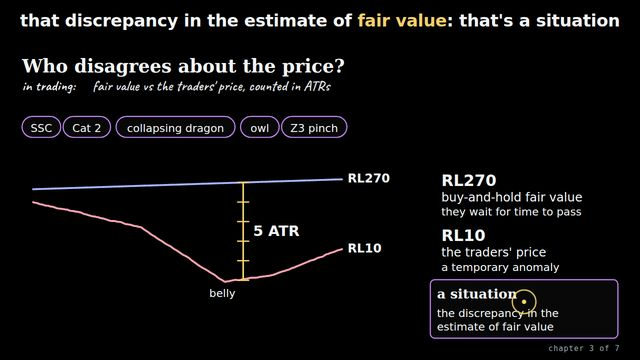
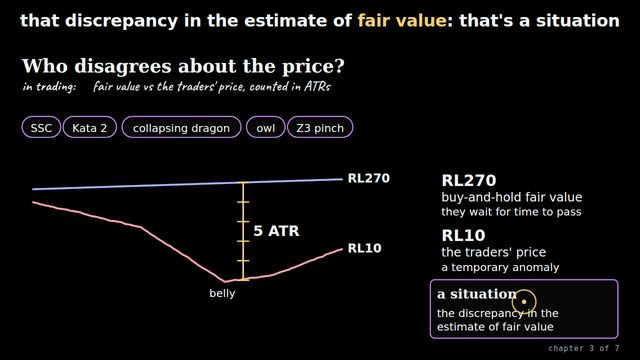
cutroom: tomorrows-trades-v2 rev 5 (owner notes: Kata 2, s04k card, s03a date)

Changed region(s): [[0.0938, 0.3056, 0.5625, 0.3972]]

diff --git a/tools/cutroom/tomorrows-trades-v2/anim-s08a.html b/tools/cutroom/tomorrows-trades-v2/anim-s08a.html
@@ -2,7 +2,7 @@
 <html lang="en">
 <head>
 <meta charset="utf-8">
-<title>s08a · the Cat 2s he walked away from</title>
+<title>s08a · the Kata 2s he walked away from</title>
 <style>
   :root { --bg:#000; --fg:#f2f5f7; --muted:#9aa7b0; --border:rgba(255,255,255,0.12); --accent:#F2D06B;
           --ok:#4ade80; --dn:#f87171; --card:#000; --blue:#7baad4; }
@@ -89,7 +89,7 @@ function recall(t,t0,x,y,w,h,label,inner,o={}){const a=op(t,t0,.5)*(o.until&&t>o
   return rect(x,y,w,h,{r:8,s:MUT,sw:1.5,f:'rgba(255,255,255,.03)',o:a,dash:'4 4'})+txt(x+12,y+20,label,{sz:14,c:MUT,o:a})+`<g opacity="${a}" transform="translate(${x} ${y+28}) scale(${o.sc||.5})">${inner}</g>`;}
 function list(t,t0,step,items,x,y,o={}){let out='';items.forEach((s,i)=>{const o1=op(t,t0+i*step,0.4);if(o1>0)out+=txt(x,y+i*(o.lh||34),s,{sz:o.sz||22,c:o.c||FG,o:o1,w:o.w||400});});return out;}
 
-const BEATS = [[0.2, "I discovered it after about five years of trading just the channeling and the overreaction", ""], [13.8, "these are all <em>specific rules</em>, with very strict criteria", ""], [20.0, "a 5DD: you have to have <em>five lower closes</em>", ""], [44.7, "four days down, then one day up, then four more down: <em>no signal</em>", ""], [62.7, "trading them mechanically, they were positive expectancy", ""], [77.2, "we captured the washout and then I just <em>walked away</em> from the symbol", ""], [83.8, "on the S&P later there were what we came to call <em>Cat 2s</em>, all the way up", ""], [126.0, "by the breakout above yesterday's high <em>plus a nickel</em>", ""], [130.1, "start with a risk box of yesterday's range, and just <em>trail it</em>", ""], [153.9, "above the previous peak of the regression line: what we now call an <em>emerging dragon</em>", ""], [182.2, "while it's still in what I think of as <em>the pocket</em>", ""], [195.5, "if it was going to fail, that's probably where it would fail", ""], [209.4, "you could re-enter as a continuation, <em>regardless of the original source</em>", ""], [219.4, "it ended up becoming a <em>standard re-entry strategy</em>", ""]];
+const BEATS = [[0.2, "I discovered it after about five years of trading just the channeling and the overreaction", ""], [13.8, "these are all <em>specific rules</em>, with very strict criteria", ""], [20.0, "a 5DD: you have to have <em>five lower closes</em>", ""], [44.7, "four days down, then one day up, then four more down: <em>no signal</em>", ""], [62.7, "trading them mechanically, they were positive expectancy", ""], [77.2, "we captured the washout and then I just <em>walked away</em> from the symbol", ""], [83.8, "on the S&P later there were what we came to call <em>Kata 2s</em>, all the way up", ""], [126.0, "by the breakout above yesterday's high <em>plus a nickel</em>", ""], [130.1, "start with a risk box of yesterday's range, and just <em>trail it</em>", ""], [153.9, "above the previous peak of the regression line: what we now call an <em>emerging dragon</em>", ""], [182.2, "while it's still in what I think of as <em>the pocket</em>", ""], [195.5, "if it was going to fail, that's probably where it would fail", ""], [209.4, "you could re-enter as a continuation, <em>regardless of the original source</em>", ""], [219.4, "it ended up becoming a <em>standard re-entry strategy</em>", ""]];
 // WARP (optional): [[t_voice, t_authored], …] knots from the voice-over's words; the scene was authored on an estimate
 const WARP = null;
 const warpT = t => { if (!WARP) return t; for (let i = 1; i < WARP.length; i++) if (t <= WARP[i][0]) {
@@ -168,15 +168,15 @@ const xmark=(x,y,a,c)=>a<=0?'':line(x-10,y-10,x+10,y+10,{s:c||DN,sw:4,o:a})+line
 const check=(x,y,a,c)=>a<=0?'':path(`M${x-11} ${y} L${x-3} ${y+9} L${x+12} ${y-10}`,{s:c||OK,sw:4,o:a});
 
 function draw(t){let s='';
-  s+=head(t,0,'What did the strict rules leave behind?')+bridge(t,0,'the Cat 2s after a cashed trade, and the pocket');
+  s+=head(t,0,'What did the strict rules leave behind?')+bridge(t,0,'the Kata 2s after a cashed trade, and the pocket');
   // five lower closes (counted), then the strict-rule miss: 4 down, 1 up, 4 down
   const cl=(x0,seq,a)=>{let s2='',y=150;seq.forEach((d,k)=>{y+=d*16;s2+=line(x0+k*26-9,y,x0+k*26+9,y,{s:d>0?RISK:TGT,sw:4,o:a});});return s2;};
   if(t>=T(2)){s+=cl(60,[1,1,1,1,1],A(t,2));s+=txt(60,265,'five lower closes',{sz:19,c:RISK,o:A(t,2)});s+=check(210,215,A(t,2),TGT);}
   if(t>=T(3)){s+=cl(290,[1,1,1,1,-1,1,1,1,1],A(t,3));s+=txt(290,265,'4 down, 1 up, 4 down',{sz:19,c:MUT,o:A(t,3)});s+=xmark(540,215,A(t,3));s+=txt(556,222,'no signal',{sz:19,c:RISK,o:A(t,3)});}
-  // the S&P after the washout: cashed and walked away, Cat 2s all the way up (no count given here)
+  // the S&P after the washout: cashed and walked away, Kata 2s all the way up (no count given here)
   const F=fr(60,290,600,220,0,1);
   if(t>=T(5)){const a=A(t,5);s+=path('M60 480 L110 500 L140 470',{s:FG,sw:3,o:a})+circ(140,470,6,{f:TGT,o:a})+txt(70,520,'washout, cashed',{sz:18,c:PAT,o:a});s+=txt(160,468,'walked away',{sz:19,c:MUT,o:a});}
-  if(t>=T(6)){const u=clamp((t-T(6))/10,0,1);const f=walk([[0,.12],[.25,.3],[.5,.5],[.75,.7],[1,.92]],11,.03);s+=plot(fr(180,290,480,220,0,1),f,0,u,{s:FG,sw:3,o:A(t,6)});s+=txt(560,320,'Cat 2s, all the way up',{sz:20,c:KEY,o:A(t,6),a:'end'});}
+  if(t>=T(6)){const u=clamp((t-T(6))/10,0,1);const f=walk([[0,.12],[.25,.3],[.5,.5],[.75,.7],[1,.92]],11,.03);s+=plot(fr(180,290,480,220,0,1),f,0,u,{s:FG,sw:3,o:A(t,6)});s+=txt(560,320,'Kata 2s, all the way up',{sz:20,c:KEY,o:A(t,6),a:'end'});}
   // the RL10, its previous peak, the pocket, the emerging dragon
   if(t>=T(9)){const a=A(t,9);s+=line(300,380,660,380,{s:MUT,sw:2,dash:'7 6',o:a})+txt(380,404,'prior RL10 peak',{sz:17,c:MUT,o:a});}
   if(t>=T(10)){const a=A(t,10);s+=rect(240,380,110,90,{r:6,f:'rgba(197,138,249,.14)',s:SIT,sw:2,o:a})+txt(295,494,'the pocket',{a:'middle',sz:20,c:SIT,o:a});}

diff --git a/tools/cutroom/tomorrows-trades-v2/anim-s07a.html b/tools/cutroom/tomorrows-trades-v2/anim-s07a.html
@@ -89,7 +89,7 @@ function recall(t,t0,x,y,w,h,label,inner,o={}){const a=op(t,t0,.5)*(o.until&&t>o
   return rect(x,y,w,h,{r:8,s:MUT,sw:1.5,f:'rgba(255,255,255,.03)',o:a,dash:'4 4'})+txt(x+12,y+20,label,{sz:14,c:MUT,o:a})+`<g opacity="${a}" transform="translate(${x} ${y+28}) scale(${o.sc||.5})">${inner}</g>`;}
 function list(t,t0,step,items,x,y,o={}){let out='';items.forEach((s,i)=>{const o1=op(t,t0+i*step,0.4);if(o1>0)out+=txt(x,y+i*(o.lh||34),s,{sz:o.sz||22,c:o.c||FG,o:o1,w:o.w||400});});return out;}
 
-const BEATS = [[0.2, "The reason I came across it: for about <em>five years</em>, all I took were the formal structured trades", ""], [22.8, "2001, when the internet bubble blew up, maybe 2003: a huge selloff", ""], [38.4, "we took the <em>washout</em> pattern and we cashed that trade", ""], [42.6, "and then there were <em>seven Cat 2s</em>; we weren't calling them that at the time", ""], [70.6, "the channeling system: price was above the <em>200-day</em>", ""], [73.2, "then pulled back until Williams %R was <em>oversold</em>", ""], [101.9, "you just buy <em>tomorrow's open</em>, wherever it opens", ""], [117.8, "the stop: yesterday's low, or you could use a <em>5% initial stop</em>", ""], [124.6, "about <em>70%</em> of the time, this thing wins", ""], [141.9, "the exit: when it got above minus 30, almost overbought", ""], [177.0, "year in and year out, <em>70 to 85%</em> successful in the big fat indexes", "His figures, as he states them."], [200.1, "that simple rule turns out to be <em>positive expectancy</em>", ""], [208.2, "this idea of the continuation pattern proved to be very interesting", ""]];
+const BEATS = [[0.2, "The reason I came across it: for about <em>five years</em>, all I took were the formal structured trades", ""], [22.8, "2001, when the internet bubble blew up, maybe 2003: a huge selloff", ""], [38.4, "we took the <em>washout</em> pattern and we cashed that trade", ""], [42.6, "and then there were <em>seven Kata 2s</em>; we weren't calling them that at the time", ""], [70.6, "the channeling system: price was above the <em>200-day</em>", ""], [73.2, "then pulled back until Williams %R was <em>oversold</em>", ""], [101.9, "you just buy <em>tomorrow's open</em>, wherever it opens", ""], [117.8, "the stop: yesterday's low, or you could use a <em>5% initial stop</em>", ""], [124.6, "about <em>70%</em> of the time, this thing wins", ""], [141.9, "the exit: when it got above minus 30, almost overbought", ""], [177.0, "year in and year out, <em>70 to 85%</em> successful in the big fat indexes", "His figures, as he states them."], [200.1, "that simple rule turns out to be <em>positive expectancy</em>", ""], [208.2, "this idea of the continuation pattern proved to be very interesting", ""]];
 // WARP (optional): [[t_voice, t_authored], …] knots from the voice-over's words; the scene was authored on an estimate
 const WARP = null;
 const warpT = t => { if (!WARP) return t; for (let i = 1; i < WARP.length; i++) if (t <= WARP[i][0]) {
@@ -174,7 +174,7 @@ function draw(t){let s='';
   if(t>=T(1)){const a=A(t,1);s+=path(`M${x0} 150 L${x0+60} 190 L${x0+110} 250 L${x0+150} 300`,{s:RISK,sw:3,o:a});s+=txt(x0,140,'selloff',{sz:19,c:RISK,o:a});}
   if(t>=T(2)){const a=A(t,2);s+=path(`M${x0+150} 300 L${x0+190} 270`,{s:FG,sw:3,o:a});s+=circ(x0+150,300,7,{f:PAT,o:a})+circ(x0+190,270,7,{f:TGT,o:a});s+=txt(x0+120,334,'washout, cashed',{sz:19,c:PAT,o:a});}
   if(t>=T(3)){for(let k=0;k<7;k++){const a=op(t,T(3)+k*.5,.4);if(a<=0)continue;const x=x0+210+k*58,y=262-k*16;s+=path(`M${x-16} ${y+14} L${x} ${y} L${x+16} ${y-6} L${x+30} ${y-16}`,{s:FG,sw:3,o:a});s+=circ(x+30,y-16,5,{f:KEY,o:a});}
-    s+=txt(x0+390,280,'seven Cat 2s',{sz:22,c:KEY,o:A(t,3),w:600,a:'middle'});}
+    s+=txt(x0+390,280,'seven Kata 2s',{sz:22,c:KEY,o:A(t,3),w:600,a:'middle'});}
   // the channeling rule, small chart under it: 200-day, W%R oversold, buy the open, exit near -30
   const F=fr(60,370,560,90,0,1);
   if(t>=T(4)){const a=A(t,4);s+=line(60,410,620,410,{s:MUT,sw:2.5,dash:'8 6',o:a})+txt(626,415,'200-day',{sz:18,c:MUT,o:a});s+=path('M60 392 L180 380 L260 400 L300 404 L360 388 L460 372 L560 366 L620 360',{s:FG,sw:3,o:a});}

diff --git a/tools/cutroom/tomorrows-trades-v2/anim-s10a.html b/tools/cutroom/tomorrows-trades-v2/anim-s10a.html
@@ -89,7 +89,7 @@ function recall(t,t0,x,y,w,h,label,inner,o={}){const a=op(t,t0,.5)*(o.until&&t>o
   return rect(x,y,w,h,{r:8,s:MUT,sw:1.5,f:'rgba(255,255,255,.03)',o:a,dash:'4 4'})+txt(x+12,y+20,label,{sz:14,c:MUT,o:a})+`<g opacity="${a}" transform="translate(${x} ${y+28}) scale(${o.sc||.5})">${inner}</g>`;}
 function list(t,t0,step,items,x,y,o={}){let out='';items.forEach((s,i)=>{const o1=op(t,t0+i*step,0.4);if(o1>0)out+=txt(x,y+i*(o.lh||34),s,{sz:o.sz||22,c:o.c||FG,o:o1,w:o.w||400});});return out;}
 
-const BEATS = [[2.8, "then I started adding the <em>RL patterns</em>, generation one and generation two", ""], [15.8, "generation two: the SSC, the Cat 2, the collapsing dragon, the owl, the Z3 pinch", ""], [25.8, "the regression line fractal framework is what I'd call a <em>situation</em>", ""], [43.7, "the <em>RL270</em> is way up here, because there was a nice move", ""], [53.2, "but a temporary selloff in the <em>RL10</em>, and it had come to a reversal", ""], [82.9, "measure the number of <em>ATRs</em> between the belly of the RL10 and the RL270", ""], [100.5, "call the RL270 the long-term <em>buy-and-hold fair value</em>", ""], [107.3, "and the RL10 the <em>traders' price</em>", ""], [115.8, "a difference of opinion: what <em>two different populations</em> consider the correct price", ""], [125.2, "the long-term buy-and-holders are willing to wait for time to pass", ""], [143.1, "some kind of temporary anomaly caused the traders to take it down this far", ""], [158.5, "in this one, a <em>5 to 1</em>, based on ATR", ""], [176.8, "that discrepancy in the estimate of <em>fair value</em>: that's a situation", ""]];
+const BEATS = [[2.8, "then I started adding the <em>RL patterns</em>, generation one and generation two", ""], [15.8, "generation two: the SSC, the Kata 2, the collapsing dragon, the owl, the Z3 pinch", ""], [25.8, "the regression line fractal framework is what I'd call a <em>situation</em>", ""], [43.7, "the <em>RL270</em> is way up here, because there was a nice move", ""], [53.2, "but a temporary selloff in the <em>RL10</em>, and it had come to a reversal", ""], [82.9, "measure the number of <em>ATRs</em> between the belly of the RL10 and the RL270", ""], [100.5, "call the RL270 the long-term <em>buy-and-hold fair value</em>", ""], [107.3, "and the RL10 the <em>traders' price</em>", ""], [115.8, "a difference of opinion: what <em>two different populations</em> consider the correct price", ""], [125.2, "the long-term buy-and-holders are willing to wait for time to pass", ""], [143.1, "some kind of temporary anomaly caused the traders to take it down this far", ""], [158.5, "in this one, a <em>5 to 1</em>, based on ATR", ""], [176.8, "that discrepancy in the estimate of <em>fair value</em>: that's a situation", ""]];
 // WARP (optional): [[t_voice, t_authored], …] knots from the voice-over's words; the scene was authored on an estimate
 const WARP = null;
 const warpT = t => { if (!WARP) return t; for (let i = 1; i < WARP.length; i++) if (t <= WARP[i][0]) {
@@ -178,7 +178,7 @@ const BELLY=.68;
 function draw(t){let s='';
   s+=head(t,0,'Who disagrees about the price?')+bridge(t,0,'fair value vs the traders\' price, counted in ATRs');
   // generation two, counted as he names them (five)
-  const g2=['SSC','Cat 2','collapsing dragon','owl','Z3 pinch'];let gx=40;
+  const g2=['SSC','Kata 2','collapsing dragon','owl','Z3 pinch'];let gx=40;
   g2.forEach((nm,k)=>{const a=op(t,T(1)+k*.7,.4);if(a<=0)return;s+=chipS(null,null,gx,150,nm,SIT,{sz:18,o:a});gx+=nm.length*18*.6+32+10;});
   const F=fr(60,190,560,300,0,1);
   s+=crowds(F,A(t,3),clamp((t-T(4))/6,0,1)*(t>=T(4)?1:0));

diff --git a/tools/cutroom/tomorrows-trades-v2/anim-s20a.html b/tools/cutroom/tomorrows-trades-v2/anim-s20a.html
@@ -89,7 +89,7 @@ function recall(t,t0,x,y,w,h,label,inner,o={}){const a=op(t,t0,.5)*(o.until&&t>o
   return rect(x,y,w,h,{r:8,s:MUT,sw:1.5,f:'rgba(255,255,255,.03)',o:a,dash:'4 4'})+txt(x+12,y+20,label,{sz:14,c:MUT,o:a})+`<g opacity="${a}" transform="translate(${x} ${y+28}) scale(${o.sc||.5})">${inner}</g>`;}
 function list(t,t0,step,items,x,y,o={}){let out='';items.forEach((s,i)=>{const o1=op(t,t0+i*step,0.4);if(o1>0)out+=txt(x,y+i*(o.lh||34),s,{sz:o.sz||22,c:o.c||FG,o:o1,w:o.w||400});});return out;}
 
-const BEATS = [[0.2, "For right now, maybe the best thing is to take those <em>usual suspects</em>", ""], [8.1, "maybe just <em>limit it</em> to that; don't worry about scouring the daily report", ""], [16.4, "<em>work them up at night</em>, work them up well, be really prepared", ""], [23.2, "and trade those on <em>three-minute bars</em> the next day", ""], [32.0, "that's also the argument behind the <em>Cat 2 challenge</em>", ""], [46.5, "it would cause you to start with the <em>mechanical frame</em>", ""], [57.6, "I don't recognize any mechanical swing trade pattern in there", ""], [65.8, "there's still a <em>universal entry</em>: the high and the low of yesterday", ""], [79.6, "if this thing opens in the <em>yellow zone</em>, no matter what", ""], [94.0, "there's probably some pattern in there you can trade: a Cat 2, an SSC, a continuation", ""]];
+const BEATS = [[0.2, "For right now, maybe the best thing is to take those <em>usual suspects</em>", ""], [8.1, "maybe just <em>limit it</em> to that; don't worry about scouring the daily report", ""], [16.4, "<em>work them up at night</em>, work them up well, be really prepared", ""], [23.2, "and trade those on <em>three-minute bars</em> the next day", ""], [32.0, "that's also the argument behind the <em>Kata 2 challenge</em>", ""], [46.5, "it would cause you to start with the <em>mechanical frame</em>", ""], [57.6, "I don't recognize any mechanical swing trade pattern in there", ""], [65.8, "there's still a <em>universal entry</em>: the high and the low of yesterday", ""], [79.6, "if this thing opens in the <em>yellow zone</em>, no matter what", ""], [94.0, "there's probably some pattern in there you can trade: a Kata 2, an SSC, a continuation", ""]];
 // WARP (optional): [[t_voice, t_authored], …] knots from the voice-over's words; the scene was authored on an estimate
 const WARP = null;
 const warpT = t => { if (!WARP) return t; for (let i = 1; i < WARP.length; i++) if (t <= WARP[i][0]) {
@@ -181,8 +181,8 @@ function draw(t){let s='';
   // the mechanical frame, the running example small: the yellow zone and its pattern chips
   const F=fr(60,380,520,140,99,105);
   s+=yday(F,A(t,5),{zone:A(t,8),lines:A(t,7)});
-  ['Cat 2','SSC','continuation'].forEach((nm,k)=>{s+=chipS(t,9,todayF(F).X(.1)+k*110,F.Y(102)+10,nm,SIT,{sz:17,w:100,o:op(t,T(9)+k*.6,.4)});});
-  s+=chipS(t,4,800,170,'the Cat 2 challenge',KEY,{sz:22});
+  ['Kata 2','SSC','continuation'].forEach((nm,k)=>{s+=chipS(t,9,todayF(F).X(.1)+k*110,F.Y(102)+10,nm,SIT,{sz:17,w:100,o:op(t,T(9)+k*.6,.4)});});
+  s+=chipS(t,4,800,170,'the Kata 2 challenge',KEY,{sz:22});
   s+=defn(t,T(7),780,220,340,'still a universal entry',['yesterday\'s high and low','an open in the yellow zone','some pattern you can trade'],{lsz:18,lh:26,sz:22,pad:14,s:KEY});
   s+=L(t,6,800,420,'no swing pattern?',{sz:20,c:MUT});
   s+=focus(t,[[T(0),200,180],[T(1),620,240],[T(2),60,300],[T(3),200,340],[T(4),940,162],[T(7),950,270],[T(9),todayF(F).X(.3),F.Y(102)]]);

diff --git a/tools/cutroom/tomorrows-trades-v2/anim-s17a.html b/tools/cutroom/tomorrows-trades-v2/anim-s17a.html
@@ -89,7 +89,7 @@ function recall(t,t0,x,y,w,h,label,inner,o={}){const a=op(t,t0,.5)*(o.until&&t>o
   return rect(x,y,w,h,{r:8,s:MUT,sw:1.5,f:'rgba(255,255,255,.03)',o:a,dash:'4 4'})+txt(x+12,y+20,label,{sz:14,c:MUT,o:a})+`<g opacity="${a}" transform="translate(${x} ${y+28}) scale(${o.sc||.5})">${inner}</g>`;}
 function list(t,t0,step,items,x,y,o={}){let out='';items.forEach((s,i)=>{const o1=op(t,t0+i*step,0.4);if(o1>0)out+=txt(x,y+i*(o.lh||34),s,{sz:o.sz||22,c:o.c||FG,o:o1,w:o.w||400});});return out;}
 
-const BEATS = [[1.8, "or it's one of my <em>usual suspects</em>: EWW, EWZ", ""], [10.8, "and I recognize a standard pattern: the sniper pattern, <em>SSC, Cat 2, collapsing dragon</em>", ""], [20.0, "that little <em>triumvirate</em>, as a compound <em>battle drill</em>", ""], [27.8, "it's always preceded by a <em>harsh winter</em>", ""], [33.0, "something says this thing was <em>decisively in play</em> to the downside", ""], [36.9, "and then the R10 reversed at a very precise point", ""], [49.0, "and it moved up enough to hit my <em>P flip</em>", ""], [53.1, "now the P is going to be <em>my friend</em> on the way up", ""], [57.7, "a very well-defined entry this way, and a refined collapsing dragon that way", ""], [68.6, "I <em>absolutely love</em> that", ""]];
+const BEATS = [[1.8, "or it's one of my <em>usual suspects</em>: EWW, EWZ", ""], [10.8, "and I recognize a standard pattern: the sniper pattern, <em>SSC, Kata 2, collapsing dragon</em>", ""], [20.0, "that little <em>triumvirate</em>, as a compound <em>battle drill</em>", ""], [27.8, "it's always preceded by a <em>harsh winter</em>", ""], [33.0, "something says this thing was <em>decisively in play</em> to the downside", ""], [36.9, "and then the R10 reversed at a very precise point", ""], [49.0, "and it moved up enough to hit my <em>P flip</em>", ""], [53.1, "now the P is going to be <em>my friend</em> on the way up", ""], [57.7, "a very well-defined entry this way, and a refined collapsing dragon that way", ""], [68.6, "I <em>absolutely love</em> that", ""]];
 // WARP (optional): [[t_voice, t_authored], …] knots from the voice-over's words; the scene was authored on an estimate
 const WARP = null;
 const warpT = t => { if (!WARP) return t; for (let i = 1; i < WARP.length; i++) if (t <= WARP[i][0]) {
@@ -170,7 +170,7 @@ const check=(x,y,a,c)=>a<=0?'':path(`M${x-11} ${y} L${x-3} ${y+9} L${x+12} ${y-1
 function draw(t){let s='';
   s+=head(t,0,'What is the battle drill?')+bridge(t,0,'after a harsh winter: the reversal, the P flip, the entry');
   s+=chipS(t,0,40,150,'EWW',SUS,{sz:21,w:100});s+=chipS(t,0,150,150,'EWZ',SUS,{sz:21,w:100});
-  ['SSC','Cat 2','collapsing dragon'].forEach((nm,k)=>{s+=chipS(t,1,290+[0,100,210][k],150,nm,SIT,{sz:19,o:op(t,T(1)+k*.6,.4)});});
+  ['SSC','Kata 2','collapsing dragon'].forEach((nm,k)=>{s+=chipS(t,1,290+[0,100,210][k],150,nm,SIT,{sz:19,o:op(t,T(1)+k*.6,.4)});});
   // the harsh winter, the precise reversal, the PSAR dots flipping under price
   const F=fr(60,190,600,310,0,1);
   const f=walk([[0,.92],[.45,.16],[.55,.1],[.7,.34],[1,.72]],21,.006);

diff --git a/tools/cutroom/tomorrows-trades-v2/anim-s03a.html b/tools/cutroom/tomorrows-trades-v2/anim-s03a.html
@@ -89,7 +89,7 @@ function recall(t,t0,x,y,w,h,label,inner,o={}){const a=op(t,t0,.5)*(o.until&&t>o
   return rect(x,y,w,h,{r:8,s:MUT,sw:1.5,f:'rgba(255,255,255,.03)',o:a,dash:'4 4'})+txt(x+12,y+20,label,{sz:14,c:MUT,o:a})+`<g opacity="${a}" transform="translate(${x} ${y+28}) scale(${o.sc||.5})">${inner}</g>`;}
 function list(t,t0,step,items,x,y,o={}){let out='';items.forEach((s,i)=>{const o1=op(t,t0+i*step,0.4);if(o1>0)out+=txt(x,y+i*(o.lh||34),s,{sz:o.sz||22,c:o.c||FG,o:o1,w:o.w||400});});return out;}
 
-const BEATS = [[0.2, "Small group coaching, <em>January 22nd, 2024</em>", ""], [13.4, "Let me borrow your chart here, George: something just jumped into my head", "George is a student in the group."], [32.3, "My <em>daily process map</em>: when the market closes", ""], [47.8, "I give <em>gratitude</em> for the trading that I did", ""], [50.2, "and then <em>forgiveness</em> for the trading that I did", ""], [57.0, "then I'm looking to generate <em>three sources of new symbols</em> for the day ahead", ""], [67.7, "<em>Source one</em>: any trade that is still open, any open swing trade", ""], [81.0, "near the close: do I terminate the day trade, or keep a swing trade open?", ""], [100.0, "there are two sources of swing trades that get you to an open symbol", ""], [106.4, "one: it started off as a <em>day trade</em>, and it was just so good", ""], [129.9, "it's going to be <em>in play tomorrow</em> because it was in play today", ""], [143.0, "two: a <em>swing trade</em> that didn't hit its exit today", ""], [161.7, "so there are some number of symbols that are still <em>open trades</em>", ""]];
+const BEATS = [[0.2, "Small group coaching", ""], [13.4, "Let me borrow your chart here, George: something just jumped into my head", "George is a student in the group."], [32.3, "My <em>daily process map</em>: when the market closes", ""], [47.8, "I give <em>gratitude</em> for the trading that I did", ""], [50.2, "and then <em>forgiveness</em> for the trading that I did", ""], [57.0, "then I'm looking to generate <em>three sources of new symbols</em> for the day ahead", ""], [67.7, "<em>Source one</em>: any trade that is still open, any open swing trade", ""], [81.0, "near the close: do I terminate the day trade, or keep a swing trade open?", ""], [100.0, "there are two sources of swing trades that get you to an open symbol", ""], [106.4, "one: it started off as a <em>day trade</em>, and it was just so good", ""], [129.9, "it's going to be <em>in play tomorrow</em> because it was in play today", ""], [143.0, "two: a <em>swing trade</em> that didn't hit its exit today", ""], [161.7, "so there are some number of symbols that are still <em>open trades</em>", ""]];
 // WARP (optional): [[t_voice, t_authored], …] knots from the voice-over's words; the scene was authored on an estimate
 const WARP = null;
 const warpT = t => { if (!WARP) return t; for (let i = 1; i < WARP.length; i++) if (t <= WARP[i][0]) {
